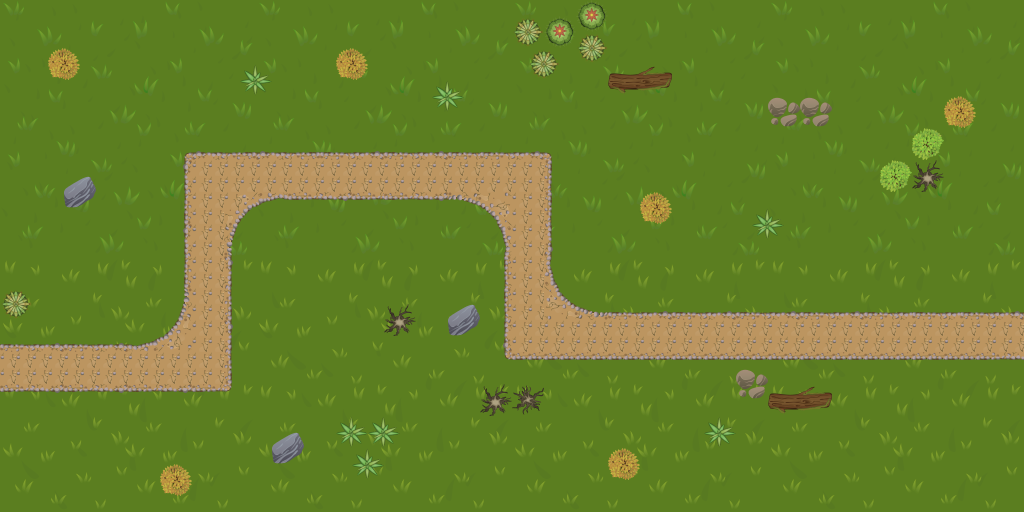
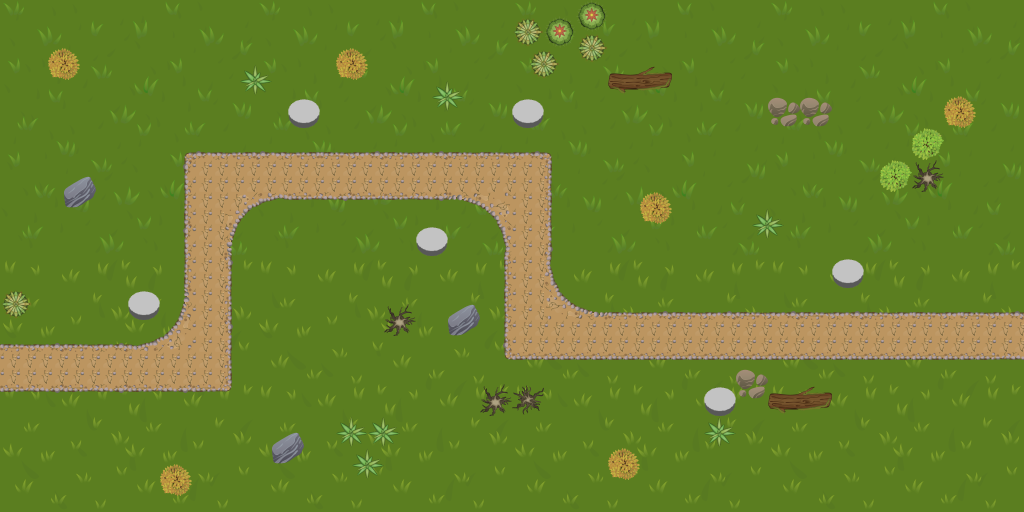
complete: place turret on map

diff --git a/js/GamePlayScene.js b/js/GamePlayScene.js
@@ -1,17 +1,21 @@
 import Enemy from "./Enemy.js";
 import Turret from "./Turret.js";
 import Bullet from "./Bullet.js";
+import Map from "./Map.js";
 
+
+const turrets = [];
 export default class GamePlayScene extends Phaser.Scene{
     path;
     graphics;
     enemies;
-    turrets;
+    turrets = new Array();
     bullets;
     tileSize;
 
     constructor(){
         super("gamePlayScene");
+
     }
 
     preload() {
@@ -24,6 +28,7 @@ export default class GamePlayScene extends Phaser.Scene{
     create() {
         // this graphics element is only for visualization, 
         // its not related to our path
+
         this.add.image(512, 256, 'bg1');
 
         this.graphics = this.add.graphics();    
@@ -39,14 +44,6 @@ export default class GamePlayScene extends Phaser.Scene{
         
         this.graphics.lineStyle(3, 0xffffff, 1);
         this.tileSize = 32;
-    
-        //this.enemies = this.physics.add.group({ classType: Enemy, runChildUpdate: true });
-        
-        //Add turrets pool
-        // this.turrets = this.physics.add.group();
-        // var turret = new Turret(this);
-        // turret.active = false;
-        // this.turrets.add(turret);
 
         // visualize the path
         this.path.draw(this.graphics);
@@ -55,15 +52,16 @@ export default class GamePlayScene extends Phaser.Scene{
 
         this.enemies = this.physics.add.group({classType: Enemy, runChildUpdate: true});
 
-        this.turrets = this.physics.add.group({classType: Turret, runChildUpdate: true});
+        this.turrets = new Array();
 
         this.bullets = this.physics.add.group({classType: Bullet, runChildUpdate: true});
 
         //this.add.overlap(this.enemies, this.bullets, this.damageEnemy);
     
-        //this.input.on('pointerdown', this.placeTurret);
+        this.input.on('pointerdown', this.placeTurret);
 
         this.drawLines(this.graphics);
+
     }
      
     update(time, delta) {  
@@ -78,7 +76,12 @@ export default class GamePlayScene extends Phaser.Scene{
                 enemy.startOnPath();
 
                 this.nextEnemy = time + 1000;
-            }       
+            }   
+        }
+
+        for (var i = 0; i < turrets.length; i++){
+            this.add.existing(turrets[i]);
+            turrets[i].update(time, delta);
         }
     }
 
@@ -95,34 +98,23 @@ export default class GamePlayScene extends Phaser.Scene{
     }
 
     placeTurret(pointer) {
-        var map = [ [ 0, 0, 0, 0, 0, 0, 0, 0, 0, 0, 0, 0, 0, 0, 0, 0, 0, 0, 0, 0, 0, 0, 0, 0, 0, 0, 0, 0, 0, 0, 0, 0],
-                    [ 0, 0, 0, 0, 0, 0, 0, 0, 0, 0, 0, 0, 0, 0, 0, 0, 0, 0, 0, 0, 0, 0, 0, 0, 0, 0, 0, 0, 0, 0, 0, 0],
-                    [ 0, 0, 0, 0, 0, 0, 0, 0, 0, 0, 0, 0, 0, 0, 0, 0, 0, 0, 0, 0, 0, 0, 0, 0, 0, 0, 0, 0, 0, 0, 0, 0],
-                    [ 0, 0, 0, 0, 0, 0, 0, 0, 0, 0, 0, 0, 0, 0, 0, 0, 0, 0, 0, 0, 0, 0, 0, 0, 0, 0, 0, 0, 0, 0, 0, 0],
-                    [ 0, 0, 0, 0, 0, 0, 0, 0, 0, 0, 0, 0, 0, 0, 0, 0, 0, 0, 0, 0, 0, 0, 0, 0, 0, 0, 0, 0, 0, 0, 0, 0],
-                    [ 0, 0, 0, 0, 0, 0, 1, 1, 1, 1, 1, 1, 1, 1, 1, 1, 1, 0, 0, 0, 0, 0, 0, 0, 0, 0, 0, 0, 0, 0, 0, 0],
-                    [ 0, 0, 0, 0, 0, 0, 1, 0, 0, 0, 0, 0, 0, 0, 0, 0, 1, 0, 0, 0, 0, 0, 0, 0, 0, 0, 0, 0, 0, 0, 0, 0],
-                    [ 0, 0, 0, 0, 0, 0, 1, 0, 0, 0, 0, 0, 0, 0, 0, 0, 1, 0, 0, 0, 0, 0, 0, 0, 0, 0, 0, 0, 0, 0, 0, 0],
-                    [ 0, 0, 0, 0, 0, 0, 1, 0, 0, 0, 0, 0, 0, 0, 0, 0, 1, 0, 0, 0, 0, 0, 0, 0, 0, 0, 0, 0, 0, 0, 0, 0],
-                    [ 0, 0, 0, 0, 0, 0, 1, 0, 0, 0, 0, 0, 0, 0, 0, 0, 1, 0, 0, 0, 0, 0, 0, 0, 0, 0, 0, 0, 0, 0, 0, 0],
-                    [ 0, 0, 0, 0, 0, 0, 1, 0, 0, 0, 0, 0, 0, 0, 0, 0, 1, 1, 1, 1, 1, 1, 1, 1, 1, 1, 1, 1, 1, 1, 1, 1],
-                    [ 1, 1, 1, 1, 1, 1, 1, 0, 0, 0, 0, 0, 0, 0, 0, 0, 0, 0, 0, 0, 0, 0, 0, 0, 0, 0, 0, 0, 0, 0, 0, 0],
-                    [ 0, 0, 0, 0, 0, 0, 0, 0, 0, 0, 0, 0, 0, 0, 0, 0, 0, 0, 0, 0, 0, 0, 0, 0, 0, 0, 0, 0, 0, 0, 0, 0],
-                    [ 0, 0, 0, 0, 0, 0, 0, 0, 0, 0, 0, 0, 0, 0, 0, 0, 0, 0, 0, 0, 0, 0, 0, 0, 0, 0, 0, 0, 0, 0, 0, 0],
-                    [ 0, 0, 0, 0, 0, 0, 0, 0, 0, 0, 0, 0, 0, 0, 0, 0, 0, 0, 0, 0, 0, 0, 0, 0, 0, 0, 0, 0, 0, 0, 0, 0],
-                    [ 0, 0, 0, 0, 0, 0, 0, 0, 0, 0, 0, 0, 0, 0, 0, 0, 0, 0, 0, 0, 0, 0, 0, 0, 0, 0, 0, 0, 0, 0, 0, 0]];
 
         var i = Math.floor(pointer.y/32);
         var j = Math.floor(pointer.x/32);
 
-        if(map[i][j] === 0) {
-            var turret = new Turret(this);
+
+        if(Map.Level1Map[i][j] === 2) {
+            var turret = new Turret(this.scene);
             if (turret)
             {
+                turrets.push(turret);
+                console.log(turrets.length);
+                
                 turret.setActive(true);
                 turret.setVisible(true);
-                turret.place(i, j, this);
-            }   
+                turret.place(i, j);
+                
+            }  
         }
     }
 

diff --git a/js/Turret.js b/js/Turret.js
@@ -1,29 +1,38 @@
+import Map from "./Map.js"
+
+var currentScene;
 export default class Turret extends Phaser.GameObjects.Sprite {
     atkRange;
     atkDamage;
     constructor(scene){
-        super(scene, 0, 0);
-        Phaser.GameObjects.Image.call(this, scene, 0, 0, 'sprites', 'turret');
+        super(scene, 100, 100, 'thief', 'mob_thief_002_1x11_0');
         this.nextTic = 0;
+        currentScene = scene;
+        
     }
 
-    place(i, j, scene){
-        this.y = i * scene.tileSize + scene.tileSize/2;
-        this.x = j * scene.tileSize + scene.tileSize/2;
-        scene.map[i][j] = 1;  
+    place(i, j){
+        
+        this.y = i * 32 + 16;
+        this.x = j * 32 + 16;
+        Map.Level1Map[i][j] = 1;  
+    }
+
+    create(){
+        
     }
 
     fireBullet(){
-        var enemy = getEnemy(this.x, this.y, 200);
+        var enemy = this.getEnemy(this.x, this.y, 200);
         if(enemy) {
             var angle = Phaser.Math.Angle.Between(this.x, this.y, enemy.x, enemy.y);
-            addBullet(this.x, this.y, angle);
-            this.angle = (angle + Math.PI/2) * Phaser.Math.RAD_TO_DEG;
+            // addBullet(this.x, this.y, angle);
+            // this.angle = (angle + Math.PI/2) * Phaser.Math.RAD_TO_DEG;
         }
     }
 
     getEnemy(x, y, distance) {
-        var enemyUnits = enemies.getChildren();
+        var enemyUnits = currentScene.enemies.getChildren();
         for(var i = 0; i < enemyUnits.length; i++) {       
             if(enemyUnits[i].active && Phaser.Math.Distance.Between(x, y, enemyUnits[i].x, enemyUnits[i].y) < distance)
                 return enemyUnits[i];
@@ -32,8 +41,10 @@ export default class Turret extends Phaser.GameObjects.Sprite {
     }
 
     update(time, delta){
+        this.anims.play('thief_run', true);
+
         if(time > this.nextTic) {
-            this.fire();
+            this.fireBullet();
             this.nextTic = time + 1000;
         }
     }

diff --git a/js/Map.js b/js/Map.js
@@ -1,0 +1,19 @@
+export default class Map {
+    static Level1Map = [
+    [ 0, 0, 0, 0, 0, 0, 0, 0, 0, 0, 0, 0, 0, 0, 0, 0, 0, 0, 0, 0, 0, 0, 0, 0, 0, 0, 0, 0, 0, 0, 0, 0],
+    [ 0, 0, 0, 0, 0, 0, 0, 0, 0, 0, 0, 0, 0, 0, 0, 0, 0, 0, 0, 0, 0, 0, 0, 0, 0, 0, 0, 0, 0, 0, 0, 0],
+    [ 0, 0, 0, 0, 0, 0, 0, 0, 0, 0, 0, 0, 0, 0, 0, 0, 0, 0, 0, 0, 0, 0, 0, 0, 0, 0, 0, 0, 0, 0, 0, 0],
+    [ 0, 0, 0, 0, 0, 0, 0, 0, 0, 2, 0, 0, 0, 0, 0, 0, 2, 0, 0, 0, 0, 0, 0, 0, 0, 0, 0, 0, 0, 0, 0, 0],
+    [ 0, 0, 0, 0, 0, 0, 0, 0, 0, 0, 0, 0, 0, 0, 0, 0, 0, 0, 0, 0, 0, 0, 0, 0, 0, 0, 0, 0, 0, 0, 0, 0],
+    [ 0, 0, 0, 0, 0, 0, 1, 1, 1, 1, 1, 1, 1, 1, 1, 1, 1, 0, 0, 0, 0, 0, 0, 0, 0, 0, 0, 0, 0, 0, 0, 0],
+    [ 0, 0, 0, 0, 0, 0, 1, 0, 0, 0, 0, 0, 0, 0, 0, 0, 1, 0, 0, 0, 0, 0, 0, 0, 0, 0, 0, 0, 0, 0, 0, 0],
+    [ 0, 0, 0, 0, 0, 0, 1, 0, 0, 0, 0, 0, 0, 2, 0, 0, 1, 0, 0, 0, 0, 0, 0, 0, 0, 0, 0, 0, 0, 0, 0, 0],
+    [ 0, 0, 0, 0, 0, 0, 1, 0, 0, 0, 0, 0, 0, 0, 0, 0, 1, 0, 0, 0, 0, 0, 0, 0, 0, 0, 2, 0, 0, 0, 0, 0],
+    [ 0, 0, 0, 0, 2, 0, 1, 0, 0, 0, 0, 0, 0, 0, 0, 0, 1, 0, 0, 0, 0, 0, 0, 0, 0, 0, 0, 0, 0, 0, 0, 0],
+    [ 0, 0, 0, 0, 0, 0, 1, 0, 0, 0, 0, 0, 0, 0, 0, 0, 1, 1, 1, 1, 1, 1, 1, 1, 1, 1, 1, 1, 1, 1, 1, 1],
+    [ 1, 1, 1, 1, 1, 1, 1, 0, 0, 0, 0, 0, 0, 0, 0, 0, 0, 0, 0, 0, 0, 0, 0, 0, 0, 0, 0, 0, 0, 0, 0, 0],
+    [ 0, 0, 0, 0, 0, 0, 0, 0, 0, 0, 0, 0, 0, 0, 0, 0, 0, 0, 0, 0, 0, 0, 2, 0, 0, 0, 0, 0, 0, 0, 0, 0],
+    [ 0, 0, 0, 0, 0, 0, 0, 0, 0, 0, 0, 0, 0, 0, 0, 0, 0, 0, 0, 0, 0, 0, 0, 0, 0, 0, 0, 0, 0, 0, 0, 0],
+    [ 0, 0, 0, 0, 0, 0, 0, 0, 0, 0, 0, 0, 0, 0, 0, 0, 0, 0, 0, 0, 0, 0, 0, 0, 0, 0, 0, 0, 0, 0, 0, 0],
+    [ 0, 0, 0, 0, 0, 0, 0, 0, 0, 0, 0, 0, 0, 0, 0, 0, 0, 0, 0, 0, 0, 0, 0, 0, 0, 0, 0, 0, 0, 0, 0, 0]];
+} 

diff --git a/js/TDGame.js b/js/TDGame.js
@@ -15,15 +15,15 @@ var config = {
     physics: {
         default: 'arcade',
     }, 
-    // plugins: {
-    //     scene: [
-    //     {
-    //         plugin: PhaserMatterCollisionPlugin.default, // The plugin class
-    //         key: "matterCollision", // Where to store in Scene.Systems, e.g. scene.sys.matterCollision
-    //         mapping: "matterCollision" // Where to store in the Scene, e.g. scene.matterCollision
-    //         }
-    //     ]
-    // }
+    plugins: {
+        scene: [
+        {
+            plugin: PhaserMatterCollisionPlugin.default, // The plugin class
+            key: "matterCollision", // Where to store in Scene.Systems, e.g. scene.sys.matterCollision
+            mapping: "matterCollision" // Where to store in the Scene, e.g. scene.matterCollision
+            }
+        ]
+    }
 };
 
 var game = new Phaser.Game(config);

diff --git a/assets/TileSet/image-removebg-preview.tsx b/assets/TileSet/image-removebg-preview.tsx
@@ -1,0 +1,4 @@
+<?xml version="1.0" encoding="UTF-8"?>
+<tileset version="1.8" tiledversion="1.8.6" name="image-removebg-preview" tilewidth="16" tileheight="16" tilecount="4" columns="2">
+ <image source="C:/Users/hoang/Downloads/image-removebg-preview.png" width="32" height="32"/>
+</tileset>
